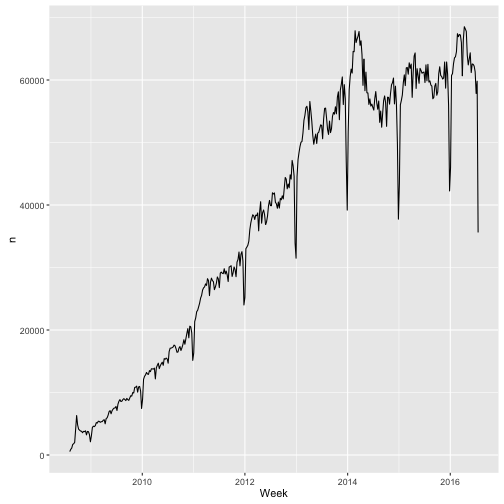
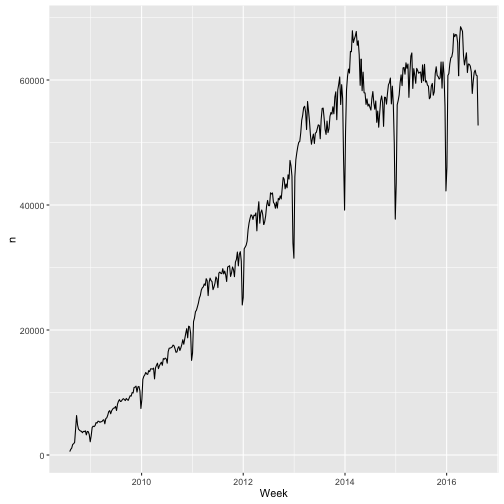
Updated to 8/16/2016

diff --git a/README.md b/README.md
@@ -30,7 +30,12 @@ This is all public data within the [Stack Exchange Data Dump](https://archive.or
 
 
 
-This dataset was extracted from the Stack Overflow database at 2016-07-18 18:49:37 UTC and contains questions up to **2016-07-17**. This includes 12062527 non-deleted questions, and  3434629 deleted ones. (The script for downloading the data can be found in [setup-data.R](setup-data.R), though it can be run only by Stack Overflow employees with database access).
+
+```r
+s <- yaml.load_file("status.yml")
+```
+
+This dataset was extracted from the Stack Overflow database at 2016-08-17 17:29:20 UTC and contains questions up to **2016-08-16**. This includes 12248066 non-deleted questions, and  3510466 deleted ones. (The script for downloading the data can be found in [setup-data.R](setup-data.R), though it can be run only by Stack Overflow employees with database access).
 
 ### Examples in R
 
@@ -53,20 +58,20 @@ questions
 ```
 
 ```
-## # A tibble: 15,497,156 x 7
+## # A tibble: 15,758,532 x 7
 ##       Id        CreationDate          ClosedDate        DeletionDate Score
 ##    <int>              <time>              <time>              <time> <int>
 ## 1      1 2008-07-31 21:26:37                <NA> 2011-03-28 00:53:47     1
-## 2      4 2008-07-31 21:42:52                <NA>                <NA>   406
-## 3      6 2008-07-31 22:08:08                <NA>                <NA>   181
+## 2      4 2008-07-31 21:42:52                <NA>                <NA>   417
+## 3      6 2008-07-31 22:08:08                <NA>                <NA>   187
 ## 4      8 2008-07-31 23:33:19 2013-06-03 04:00:25 2015-02-11 08:26:40    42
-## 5      9 2008-07-31 23:40:59                <NA>                <NA>  1286
-## 6     11 2008-07-31 23:55:37                <NA>                <NA>  1046
-## 7     13 2008-08-01 00:42:38                <NA>                <NA>   415
-## 8     14 2008-08-01 00:59:11                <NA>                <NA>   265
-## 9     16 2008-08-01 04:59:33                <NA>                <NA>    65
-## 10    17 2008-08-01 05:09:55                <NA>                <NA>    96
-## # ... with 15,497,146 more rows, and 2 more variables: OwnerUserId <int>,
+## 5      9 2008-07-31 23:40:59                <NA>                <NA>  1301
+## 6     11 2008-07-31 23:55:37                <NA>                <NA>  1056
+## 7     13 2008-08-01 00:42:38                <NA>                <NA>   422
+## 8     14 2008-08-01 00:59:11                <NA>                <NA>   271
+## 9     16 2008-08-01 04:59:33                <NA>                <NA>    66
+## 10    17 2008-08-01 05:09:55                <NA>                <NA>   102
+## # ... with 15,758,522 more rows, and 2 more variables: OwnerUserId <int>,
 ## #   AnswerCount <int>
 ```
 
@@ -75,7 +80,7 @@ question_tags
 ```
 
 ```
-## # A tibble: 45,510,638 x 2
+## # A tibble: 46,289,964 x 2
 ##       Id                 Tag
 ##    <int>               <chr>
 ## 1      1                data
@@ -88,7 +93,7 @@ question_tags
 ## 8      6                 css
 ## 9      6                css3
 ## 10     6 internet-explorer-7
-## # ... with 45,510,628 more rows
+## # ... with 46,289,954 more rows
 ```
 
 As one example, you could find the most popular tags:
@@ -100,20 +105,20 @@ question_tags %>%
 ```
 
 ```
-## # A tibble: 55,661 x 2
+## # A tibble: 56,003 x 2
 ##           Tag       n
 ##         <chr>   <int>
-## 1  javascript 1454248
-## 2        java 1409336
-## 3         php 1241691
-## 4          c# 1208953
-## 5     android 1163810
-## 6      jquery  931882
-## 7      python  732188
-## 8        html  690762
-## 9         ios  573246
-## 10        c++  571386
-## # ... with 55,651 more rows
+## 1  javascript 1485119
+## 2        java 1432094
+## 3         php 1261151
+## 4          c# 1226977
+## 5     android 1184302
+## 6      jquery  944929
+## 7      python  749745
+## 8        html  704289
+## 9         ios  583383
+## 10        c++  579063
+## # ... with 55,993 more rows
 ```
 
 Or plot the number of questions asked per week:
